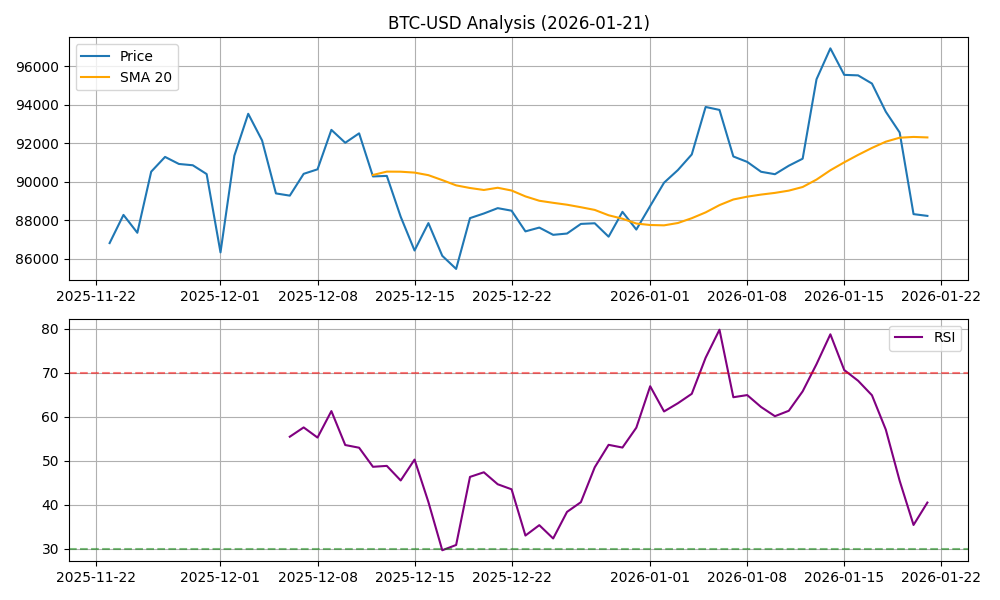
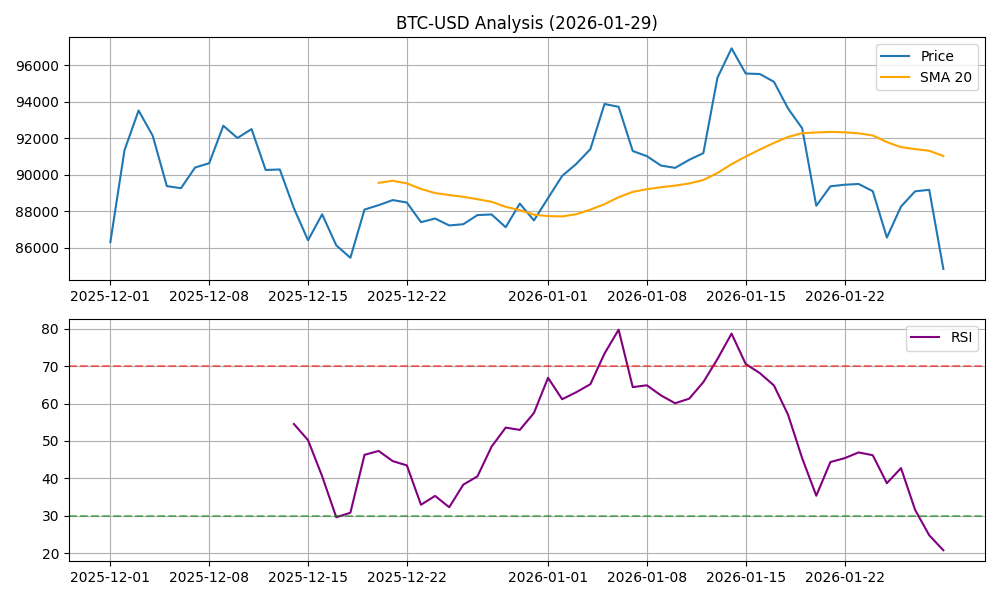
Update market analysis chart. Refreshed Dashboard.

diff --git a/README.md b/README.md
@@ -1,6 +1,6 @@
 # 🤖 Advanced Engineering Automation Dashboard
 
-**Auto-generated Report** | Last Updated: 2026-01-22 18:27:06
+**Auto-generated Report** | Last Updated: 2026-01-29 22:27:37
 
 > **Project Overview**
 > This project performs real data fetching and analysis.
@@ -11,7 +11,7 @@
 > *This is a legitimate "Data Collection & Analysis" project, not a fake commit generator.*
 
 ## 📊 Market Pulse (CryptoAnalyst)
-> 2026-01-21 22:27:10.743534: BTC $88219.48 | RSI: 40.45
+> 2026-01-29 22:27:37.303378: BTC $84854.09 | RSI: 20.79
 
 ![BTC Analysis](data/btc_analysis.png)
 
